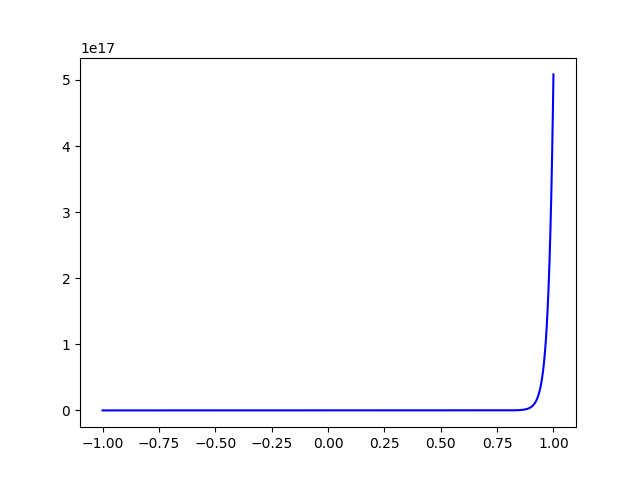
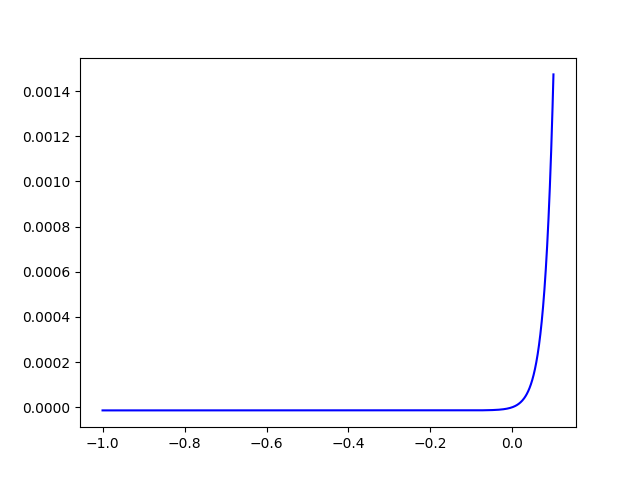
changed calculation of the valence band in a heterostructure

diff --git a/pame/HeteroStructure/Calculation.py b/pame/HeteroStructure/Calculation.py
@@ -35,17 +35,18 @@ def _plot_contact_zone(delta_Eg_model: float, Eg_outer: float, Eg_inner: float,
                        delta0_outer: float, delta0_inner: float, path: str) -> None:
     x = np.linspace(0, 10, 10)
     plt.plot(x, np.zeros_like(x), color='blue')
-    plt.plot(x, np.zeros_like(x) + Eg_outer, color='blue')
+    plt.plot(x, np.zeros_like(x) + Eg_outer, color='blue', label='Ec и Ev широкозонный')
     plt.plot(x, np.zeros_like(x) - delta0_outer / 3, 'r--')
     x = np.linspace(10, 20, 10)
-    plt.plot(x, np.zeros_like(x) - delta0_outer / 3 + delta_Eg_model, color='green')
-    plt.plot(x, np.zeros_like(x) - delta0_outer / 3 + delta_Eg_model + delta0_inner / 3, 'g-.')
+    plt.plot(x, np.zeros_like(x) - delta0_outer / 3 + delta_Eg_model, 'g-.')
+    plt.plot(x, np.zeros_like(x) - delta0_outer / 3 + delta_Eg_model + delta0_inner / 3, color='green',
+             label='Ec и Ev узкозонный')
     plt.plot(x, np.zeros_like(x) - delta0_outer / 3 + delta_Eg_model + delta0_inner / 3 + Eg_inner, color='green')
 
-    if - delta0_outer / 3 + delta_Eg_model < 0:
-        z = np.linspace(- delta0_outer / 3 + delta_Eg_model, 0, 10)
+    if - delta0_outer / 3 + delta_Eg_model + delta0_inner / 3 < 0:
+        z = np.linspace(- delta0_outer / 3 + delta_Eg_model + delta0_inner / 3, 0, 10)
     else:
-        z = np.linspace(0, - delta0_outer / 3 + delta_Eg_model, 10)
+        z = np.linspace(0, - delta0_outer / 3 + delta_Eg_model + delta0_inner / 3, 10)
     plt.plot(np.zeros_like(z) + 10, z, color='orange')
 
     if - delta0_outer / 3 + delta_Eg_model + delta0_inner / 3 + Eg_inner < Eg_outer:
@@ -54,6 +55,10 @@ def _plot_contact_zone(delta_Eg_model: float, Eg_outer: float, Eg_inner: float,
         z = np.linspace(Eg_outer, - delta0_outer / 3 + delta_Eg_model + delta0_inner / 3 + Eg_inner, 10)
     plt.plot(np.zeros_like(z) + 10, z, color='orange')
 
+    plt.legend(fontsize=7,
+               ncol=1,
+               facecolor='oldlace',
+               edgecolor='r')
     plt.savefig(path+'model.png')
 
 
@@ -87,5 +92,5 @@ def process_heterostructure(wide_band: SemiCond, slim_band: SemiCond, path=None)
 
     delta_e_conductivity = wide_band.E_g - (0 - wide_band.spin_orbital_splitting / 3 + delta_e_g_model +
                                             slim_band.spin_orbital_splitting / 3 + slim_band.E_g)
-
-    return delta_e_conductivity, delta_e_g_model
+    delta_e_valence = delta_e_g_model + slim_band.spin_orbital_splitting/3 - wide_band.spin_orbital_splitting/3
+    return delta_e_conductivity, delta_e_valence

diff --git a/main.py b/main.py
@@ -1,23 +1,6 @@
-# from examples.Superlattice.runfile import run
-from pame.FermiLevelPinning.CalculateParticles import convert_charges
 from examples.ControlWork2019.task5 import run
+# from examples.FermiLevel.Donors import run
 
 if __name__ == '__main__':
 
-    # рассчет тока в полупроводнике в pn-переходе
-    # Nd = 5e17
-    # Na = 1e18
-    #
-    # js = CurrentCalculus.count_Js(t=300., Nd=Nd, Na=Na)
-    # print(js)
-
-
-    # рассчет уровня энергии в периодической яме
-    # pp.run()
-
-    # Ge_n_type.run()
-
-    # Calculation.run()
-    # Calculation.calc_AlGaAs_GeAs()
     run()
-    # convert_charges(21192039402939)

diff --git a/examples/ControlWork2019/task3.py b/examples/ControlWork2019/task3.py
@@ -5,6 +5,7 @@
 """
 from pame.FermiLevelPinning.AcceptorFermiLevel import find_fermi_level
 from pame.Semiconductors.helper import w_width, nd_from_mobility, pn_junction_w_width
+from pame.constants import *
 
 
 # if __name__ == 'main':
@@ -29,6 +30,6 @@ def run():
         print(f'Ширина изгиба: {w/100} м')
         c = 2.998e10
         volt = 1e8 / c
-        print(f'Высота барьера: {delta_phi} eV и {delta_phi/volt} V')
+        print(f'Высота барьера: {delta_phi} eV')
     if delta_E - Si_ef <= 0:
         print("Обеднение - Уровень Ферми ушел глубоко и носителей заряда стало очень мало")

diff --git a/examples/ControlWork2019/task2.py b/examples/ControlWork2019/task2.py
@@ -25,8 +25,10 @@ def run():
     Si_Nd, Si_Na = 1e16, 3e16
     Si_Dp, Si_Lp, Si_Dn, Si_Ln = 12, 2e-3, 36, 1e-2
 
-    Ea = hydrogen_model_energy(epsilon=Si_epsilon, m=0.81*m0)
-    Ed = 1.12 - hydrogen_model_energy(epsilon=Si_epsilon, m=0.36*m0)
+    Ea = hydrogen_model_energy(epsilon=Si_epsilon, m=0.81)
+    Ed = 1.12 - hydrogen_model_energy(epsilon=Si_epsilon, m=0.36)
+    print(f'Ea = {Ea}')
+    print(f'Ed = {Ed}')
 
     Si_n = dfl.find_fermi_level(me=0.36, mh=0.81, t=250, Jd=1.12-Ed, Efpl=0.57, Efneg=1.12, Ec=1.12, Ev=0, Nd=Si_Nd)
     print(f'Si_n: Nv={Si_n.Nv}, Nc={Si_n.Nc}')

diff --git a/pame/SemiconCurrent/CurrentCalculus.py b/pame/SemiconCurrent/CurrentCalculus.py
@@ -114,10 +114,11 @@ def volt_amper_characteristic(js: float, s: float, t: float, path: str):
     :return: max current
     """
     k = 1.38e-23  # J/K
-    u = np.linspace(-1, 1, 1000)
+    u = np.linspace(-1, 0.1, 1000)
     J = []
     for i in range(len(u)):
         J.append(js * s * (np.exp(u[i]*e/(k*t)) - 1))
+    # plt.yscale('log')
     plt.plot(u, J, color='blue')
     plt.savefig(path+'vac')
     return u, J

diff --git a/pame/HeteroStructure/Readme.md b/pame/HeteroStructure/Readme.md
@@ -30,9 +30,9 @@ $E_{g} = \frac{hw_p}{\epsilon - 1}$
 Т.к. мы рассматриваем сфериескую симметрию, то значения Energy spin orbital splitting учитываем с множителем $1/3$
 4) Теперь находим реальные значения ширины зоны проводимостей для каждого из полупроводников.
 5) Опускаемся вниз на  $\delta_{0_{Si}} / 3$ от потолка валентной зоны широкозонного полупроводника.
-6) На расстоянии $\delta E$ от полученного выше уровня устанавливаем уровень валетной зоны узкозонного полупроводника. Это так, потому что модель
+6) На расстоянии $\delta E$ + $\delta_{0_{Ge}} / 3$ от полученного выше уровня устанавливаем уровень валетной зоны узкозонного полупроводника. Это так, потому что модель
 предполагает сферическую симметрию, которая есть в валентной зоне, потому предположение работает для валентной зоны.
-7) От установленного потолка валентной зоны узкозонного полупроводника поднимаемся вверх на $\delta_{0_{Ge}} / 3$ и откладываем ширину запрещенной зоны этого полупроводника, 
+7) От установленного потолка валентной зоны откладываем ширину запрещенной зоны узкозонного полупроводника, 
 получая тем самым уровень дна зоны проводимости узкозонного полупроводника.
 
 Итак, если зона проводимости полупроводника посередине ниже, чем обрамляющих, то получаем гетероструктуру I-го рода,
